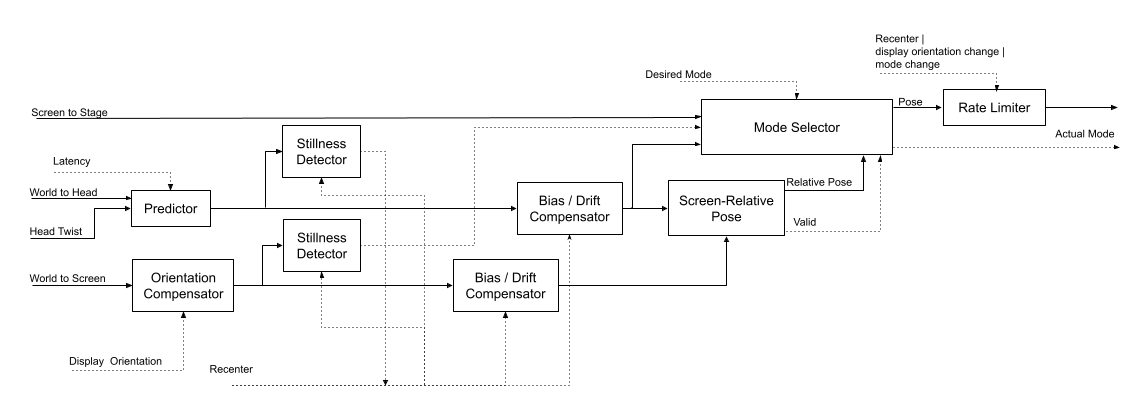
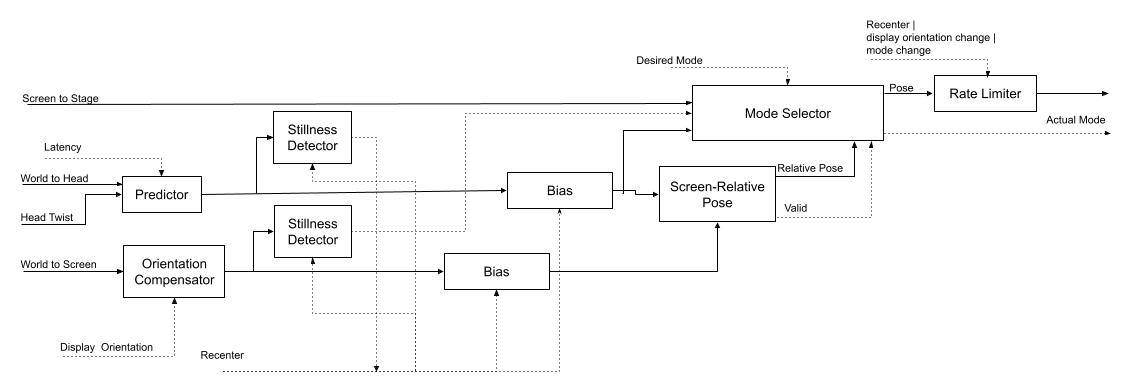
Remove drift compensator
Drift compensation is better done by the actual sensor, as it has the
knowledge of the best method to do so. For example, some sensors don't
suffer from drift at all.

This change replaces the drift compensation with a much simpler module
which only takes care of biasing (for recentering purposes).

Test: atest --host libheadtracking-test
Test: Manual verification of spatial audio with head-tracking.

diff --git a/media/libheadtracking/HeadTrackingProcessor.cpp b/media/libheadtracking/HeadTrackingProcessor.cpp
@@ -17,7 +17,7 @@
 #include "media/HeadTrackingProcessor.h"
 
 #include "ModeSelector.h"
-#include "PoseDriftCompensator.h"
+#include "PoseBias.h"
 #include "QuaternionUtil.h"
 #include "ScreenHeadFusion.h"
 #include "StillnessDetector.h"
@@ -33,14 +33,6 @@ class HeadTrackingProcessorImpl : public HeadTrackingProcessor {
   public:
     HeadTrackingProcessorImpl(const Options& options, HeadTrackingMode initialMode)
         : mOptions(options),
-          mHeadPoseDriftCompensator(PoseDriftCompensator::Options{
-                  .translationalDriftTimeConstant = options.translationalDriftTimeConstant,
-                  .rotationalDriftTimeConstant = options.rotationalDriftTimeConstant,
-          }),
-          mScreenPoseDriftCompensator(PoseDriftCompensator::Options{
-                  .translationalDriftTimeConstant = options.translationalDriftTimeConstant,
-                  .rotationalDriftTimeConstant = options.rotationalDriftTimeConstant,
-          }),
           mHeadStillnessDetector(StillnessDetector::Options{
                   .defaultValue = false,
                   .windowDuration = options.autoRecenterWindowDuration,
@@ -65,7 +57,7 @@ class HeadTrackingProcessorImpl : public HeadTrackingProcessor {
                             const Twist3f& headTwist) override {
         Pose3f predictedWorldToHead =
                 worldToHead * integrate(headTwist, mOptions.predictionDuration);
-        mHeadPoseDriftCompensator.setInput(timestamp, predictedWorldToHead);
+        mHeadPoseBias.setInput(predictedWorldToHead);
         mHeadStillnessDetector.setInput(timestamp, predictedWorldToHead);
         mWorldToHeadTimestamp = timestamp;
     }
@@ -78,7 +70,7 @@ class HeadTrackingProcessorImpl : public HeadTrackingProcessor {
         }
 
         Pose3f worldToLogicalScreen = worldToScreen * Pose3f(rotateY(-mPhysicalToLogicalAngle));
-        mScreenPoseDriftCompensator.setInput(timestamp, worldToLogicalScreen);
+        mScreenPoseBias.setInput(worldToLogicalScreen);
         mScreenStillnessDetector.setInput(timestamp, worldToLogicalScreen);
         mWorldToScreenTimestamp = timestamp;
     }
@@ -94,7 +86,7 @@ class HeadTrackingProcessorImpl : public HeadTrackingProcessor {
     void calculate(int64_t timestamp) override {
         // Handle the screen first, since it might trigger a recentering of the head.
         if (mWorldToScreenTimestamp.has_value()) {
-            const Pose3f worldToLogicalScreen = mScreenPoseDriftCompensator.getOutput();
+            const Pose3f worldToLogicalScreen = mScreenPoseBias.getOutput();
             bool screenStable = mScreenStillnessDetector.calculate(timestamp);
             mModeSelector.setScreenStable(mWorldToScreenTimestamp.value(), screenStable);
             // Whenever the screen is unstable, recenter the head pose.
@@ -107,11 +99,11 @@ class HeadTrackingProcessorImpl : public HeadTrackingProcessor {
 
         // Handle head.
         if (mWorldToHeadTimestamp.has_value()) {
-            Pose3f worldToHead = mHeadPoseDriftCompensator.getOutput();
+            Pose3f worldToHead = mHeadPoseBias.getOutput();
             // Auto-recenter.
             if (mHeadStillnessDetector.calculate(timestamp)) {
                 recenter(true, false);
-                worldToHead = mHeadPoseDriftCompensator.getOutput();
+                worldToHead = mHeadPoseBias.getOutput();
             }
 
             mScreenHeadFusion.setWorldToHeadPose(mWorldToHeadTimestamp.value(), worldToHead);
@@ -142,11 +134,11 @@ class HeadTrackingProcessorImpl : public HeadTrackingProcessor {
 
     void recenter(bool recenterHead, bool recenterScreen) override {
         if (recenterHead) {
-            mHeadPoseDriftCompensator.recenter();
+            mHeadPoseBias.recenter();
             mHeadStillnessDetector.reset();
         }
         if (recenterScreen) {
-            mScreenPoseDriftCompensator.recenter();
+            mScreenPoseBias.recenter();
             mScreenStillnessDetector.reset();
         }
 
@@ -169,8 +161,8 @@ class HeadTrackingProcessorImpl : public HeadTrackingProcessor {
     std::optional<int64_t> mWorldToHeadTimestamp;
     std::optional<int64_t> mWorldToScreenTimestamp;
     Pose3f mHeadToStagePose;
-    PoseDriftCompensator mHeadPoseDriftCompensator;
-    PoseDriftCompensator mScreenPoseDriftCompensator;
+    PoseBias mHeadPoseBias;
+    PoseBias mScreenPoseBias;
     StillnessDetector mHeadStillnessDetector;
     StillnessDetector mScreenStillnessDetector;
     ScreenHeadFusion mScreenHeadFusion;

diff --git a/services/audiopolicy/service/SpatializerPoseController.cpp b/services/audiopolicy/service/SpatializerPoseController.cpp
@@ -40,20 +40,6 @@ constexpr float kMaxTranslationalVelocity = 2;
 // This is how fast, in rad/s, we allow rotation angle to shift during rate-limiting.
 constexpr float kMaxRotationalVelocity = 8;
 
-// This should be set to the typical time scale that the translation sensors used drift in. This
-// means, loosely, for how long we can trust the reading to be "accurate enough". This would
-// determine the time constants used for high-pass filtering those readings. If the value is set
-// too high, we may experience drift. If it is set too low, we may experience poses tending toward
-// identity too fast.
-constexpr auto kTranslationalDriftTimeConstant = 40s;
-
-// This should be set to the typical time scale that the rotation sensors used drift in. This
-// means, loosely, for how long we can trust the reading to be "accurate enough". This would
-// determine the time constants used for high-pass filtering those readings. If the value is set
-// too high, we may experience drift. If it is set too low, we may experience poses tending toward
-// identity too fast.
-constexpr auto kRotationalDriftTimeConstant = 60s;
-
 // This is how far into the future we predict the head pose, using linear extrapolation based on
 // twist (velocity). It should be set to a value that matches the characteristic durations of moving
 // one's head. The higher we set this, the more latency we are able to reduce, but setting this too
@@ -100,9 +86,6 @@ SpatializerPoseController::SpatializerPoseController(Listener* listener,
       mProcessor(createHeadTrackingProcessor(HeadTrackingProcessor::Options{
               .maxTranslationalVelocity = kMaxTranslationalVelocity / kTicksPerSecond,
               .maxRotationalVelocity = kMaxRotationalVelocity / kTicksPerSecond,
-              .translationalDriftTimeConstant =
-                      double(Ticks(kTranslationalDriftTimeConstant).count()),
-              .rotationalDriftTimeConstant = double(Ticks(kRotationalDriftTimeConstant).count()),
               .freshnessTimeout = Ticks(sensorPeriod * kMaxLostSamples).count(),
               .predictionDuration = Ticks(kPredictionDuration).count(),
               .autoRecenterWindowDuration = Ticks(kAutoRecenterWindowDuration).count(),

diff --git a/media/libheadtracking/PoseBias.h b/media/libheadtracking/PoseBias.h
@@ -1,0 +1,60 @@
+/*
+ * Copyright (C) 2022 The Android Open Source Project
+ *
+ * Licensed under the Apache License, Version 2.0 (the "License");
+ * you may not use this file except in compliance with the License.
+ * You may obtain a copy of the License at
+ *
+ *      http://www.apache.org/licenses/LICENSE-2.0
+ *
+ * Unless required by applicable law or agreed to in writing, software
+ * distributed under the License is distributed on an "AS IS" BASIS,
+ * WITHOUT WARRANTIES OR CONDITIONS OF ANY KIND, either express or implied.
+ * See the License for the specific language governing permissions and
+ * limitations under the License.
+ */
+#pragma once
+
+#include "media/Pose.h"
+
+namespace android {
+namespace media {
+
+/**
+ * Biasing for a stream of poses.
+ *
+ * This filter takes a stream of poses and at any time during the stream, can change the frame of
+ * reference for the stream to be that of the last pose received, via the recenter() operation.
+ *
+ * Typical usage:
+ * PoseBias bias;
+ *
+ * bias.setInput(...);
+ * output = bias.getOutput();
+ * bias.setInput(...);
+ * output = bias.getOutput();
+ * bias.setInput(...);
+ * output = bias.getOutput();
+ * bias.recenter();  // Reference frame is now equal to the last input.
+ * output = bias.getOutput();  // This is now the identity pose.
+ *
+ * There doesn't need to be a 1:1 correspondence between setInput() and getOutput() calls.
+ * The initial bias point is identity.
+ *
+ * This implementation is thread-compatible, but not thread-safe.
+ */
+class PoseBias {
+  public:
+    void setInput(const Pose3f& input);
+
+    void recenter();
+
+    Pose3f getOutput() const;
+
+  private:
+    Pose3f mLastWorldToInput;
+    Pose3f mBiasToWorld;
+};
+
+}  // namespace media
+}  // namespace android

diff --git a/media/libheadtracking/PoseBias-test.cpp b/media/libheadtracking/PoseBias-test.cpp
@@ -1,0 +1,52 @@
+/*
+ * Copyright (C) 2022 The Android Open Source Project
+ *
+ * Licensed under the Apache License, Version 2.0 (the "License");
+ * you may not use this file except in compliance with the License.
+ * You may obtain a copy of the License at
+ *
+ *      http://www.apache.org/licenses/LICENSE-2.0
+ *
+ * Unless required by applicable law or agreed to in writing, software
+ * distributed under the License is distributed on an "AS IS" BASIS,
+ * WITHOUT WARRANTIES OR CONDITIONS OF ANY KIND, either express or implied.
+ * See the License for the specific language governing permissions and
+ * limitations under the License.
+ */
+
+#include <gtest/gtest.h>
+
+#include "PoseBias.h"
+#include "QuaternionUtil.h"
+#include "TestUtil.h"
+
+namespace android {
+namespace media {
+namespace {
+
+using Eigen::Quaternionf;
+using Eigen::Vector3f;
+
+TEST(PoseBias, Initial) {
+    PoseBias bias;
+    EXPECT_EQ(bias.getOutput(), Pose3f());
+}
+
+TEST(PoseBias, Basic) {
+    Pose3f pose1({1, 2, 3}, Quaternionf::UnitRandom());
+    Pose3f pose2({4, 5, 6}, Quaternionf::UnitRandom());
+
+    PoseBias bias;
+    bias.setInput(pose1);
+    EXPECT_EQ(pose1, bias.getOutput());
+    bias.recenter();
+    EXPECT_EQ(bias.getOutput(), Pose3f());
+    bias.setInput(pose2);
+    EXPECT_EQ(bias.getOutput(), pose1.inverse() * pose2);
+    bias.recenter();
+    EXPECT_EQ(bias.getOutput(), Pose3f());
+}
+
+}  // namespace
+}  // namespace media
+}  // namespace android

diff --git a/media/libheadtracking/PoseBias.cpp b/media/libheadtracking/PoseBias.cpp
@@ -1,0 +1,35 @@
+/*
+ * Copyright (C) 2022 The Android Open Source Project
+ *
+ * Licensed under the Apache License, Version 2.0 (the "License"){}
+ * you may not use this file except in compliance with the License.
+ * You may obtain a copy of the License at
+ *
+ *      http://www.apache.org/licenses/LICENSE-2.0
+ *
+ * Unless required by applicable law or agreed to in writing, software
+ * distributed under the License is distributed on an "AS IS" BASIS,
+ * WITHOUT WARRANTIES OR CONDITIONS OF ANY KIND, either express or implied.
+ * See the License for the specific language governing permissions and
+ * limitations under the License.
+ */
+
+#include "PoseBias.h"
+
+namespace android {
+namespace media {
+
+void PoseBias::setInput(const Pose3f& input) {
+    mLastWorldToInput = input;
+}
+
+void PoseBias::recenter() {
+    mBiasToWorld = mLastWorldToInput.inverse();
+}
+
+Pose3f PoseBias::getOutput() const {
+    return mBiasToWorld * mLastWorldToInput;
+}
+
+}  // namespace media
+}  // namespace android

diff --git a/media/libheadtracking/include/media/HeadTrackingProcessor.h b/media/libheadtracking/include/media/HeadTrackingProcessor.h
@@ -38,8 +38,6 @@ class HeadTrackingProcessor {
     struct Options {
         float maxTranslationalVelocity = std::numeric_limits<float>::infinity();
         float maxRotationalVelocity = std::numeric_limits<float>::infinity();
-        float translationalDriftTimeConstant = std::numeric_limits<float>::infinity();
-        float rotationalDriftTimeConstant = std::numeric_limits<float>::infinity();
         int64_t freshnessTimeout = std::numeric_limits<int64_t>::max();
         float predictionDuration = 0;
         int64_t autoRecenterWindowDuration = std::numeric_limits<int64_t>::max();

diff --git a/media/libheadtracking/README.md b/media/libheadtracking/README.md
@@ -115,11 +115,9 @@ have a positive Z.
 #### World
 
 It is sometimes convenient to use an intermediate frame when dealing with
-head-to-screen transforms. The “world” frame is an arbitrary frame of reference
-in the physical world, relative to which we can measure the head pose and screen
-pose. In (very common) cases when we can’t establish such an absolute frame, we
-can take each measurement relative to a separate, arbitrary frame and high-pass
-the result.
+head-to-screen transforms. The “world” frame is a frame of reference in the
+physical world, relative to which we can measure the head pose and screen pose.
+It is arbitrary, but expected to be stable (fixed).
 
 ## Processing Description
 
@@ -133,15 +131,10 @@ the outputs.
 The Predictor block gets pose + twist (pose derivative) and extrapolates to
 obtain a predicted head pose (w/ given latency).
 
-### Drift / Bias Compensator
+### Bias
 
-The Drift / Bias Compensator blocks serve two purposes:
-
-- Compensate for floating reference axes by applying a high-pass filter, which
-  slowly pulls the pose toward identity.
-- Establish the reference frame for the poses by having the ability to set the
-  current pose as the reference for future poses (recentering). Effectively,
-  this is resetting the filter state to identity.
+The Bias blocks establish the reference frame for the poses by having the
+ability to set the current pose as the reference for future poses (recentering).
 
 ### Orientation Compensation
 
@@ -157,7 +150,7 @@ and estimates the pose of the head relative to the screen. Optionally, this
 module may indicate that the user is likely not in front of the screen via the
 “valid” output.
 
-## Stillness Detector
+### Stillness Detector
 
 The stillness detector blocks detect when their incoming pose stream has been
 stable for a given amount of time (allowing for a configurable amount of error).
